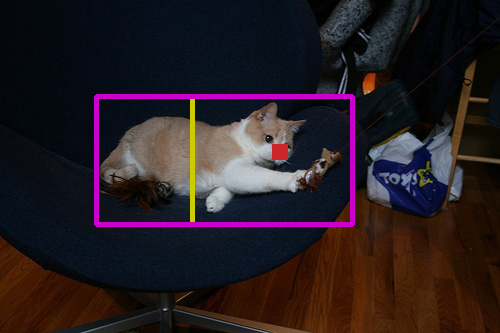
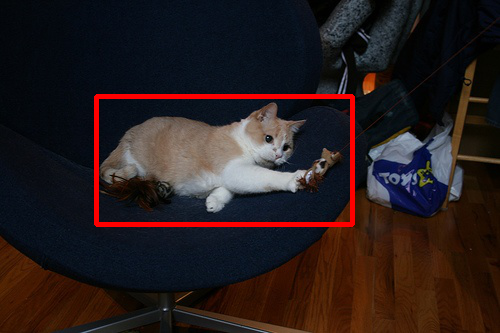
Examples

Changed region(s): [[0.18, 0.2703, 0.72, 0.6907], [0.54, 0.4204, 0.6, 0.4805]]

diff --git a/visualizations.py b/visualizations.py
@@ -7,7 +7,7 @@ from PIL import Image
 
 import matplotlib.pyplot as plt
 
-def visualize_predictions(image, pred, seed, scales, dims, vis_folder, im_name):
+def visualize_predictions(image, pred, seed, scales, dims, vis_folder, im_name, plot_seed=False):
     """
     Visualization of the predicted box and the corresponding seed patch.
     """
@@ -18,18 +18,19 @@ def visualize_predictions(image, pred, seed, scales, dims, vis_folder, im_name):
         image,
         (int(pred[0]), int(pred[1])),
         (int(pred[2]), int(pred[3])),
-        (255, 0, 0), 2,
+        (255, 0, 0), 3,
     )
 
     # Plot the seed
-    s_ = np.unravel_index(seed.cpu().numpy(), (w_featmap, h_featmap))
-    size_ = np.asarray(scales) / 2
-    cv2.rectangle(
-        image,
-        (int(s_[1] * scales[1] - (size_[1] / 2)), int(s_[0] * scales[0] - (size_[0] / 2))),
-        (int(s_[1] * scales[1] + (size_[1] / 2)), int(s_[0] * scales[0] + (size_[0] / 2))),
-        (0, 255, 0), -1,
-    )
+    if plot_seed:
+        s_ = np.unravel_index(seed.cpu().numpy(), (w_featmap, h_featmap))
+        size_ = np.asarray(scales) / 2
+        cv2.rectangle(
+            image,
+            (int(s_[1] * scales[1] - (size_[1] / 2)), int(s_[0] * scales[0] - (size_[0] / 2))),
+            (int(s_[1] * scales[1] + (size_[1] / 2)), int(s_[0] * scales[0] + (size_[0] / 2))),
+            (0, 255, 0), -1,
+        )
 
     pltname = f"{vis_folder}/LOST_{im_name}.png"
     Image.fromarray(image).save(pltname)

diff --git a/README.md b/README.md
@@ -7,6 +7,7 @@ by *Oriane Siméoni, Gilles Puy, Huy V. Vo, Simon Roburin, Spyros Gidaris, Andre
 <div>
   <img width="25%" alt="LOST visualizations" src="examples/LOST_ex0.png">
   <img width="31%" alt="LOST visualizations" src="examples/LOST_ex1.png">
+  <img width="27%" alt="LOST visualizations" src="examples/LOST_ex2.png">
 </div>  
 
 
